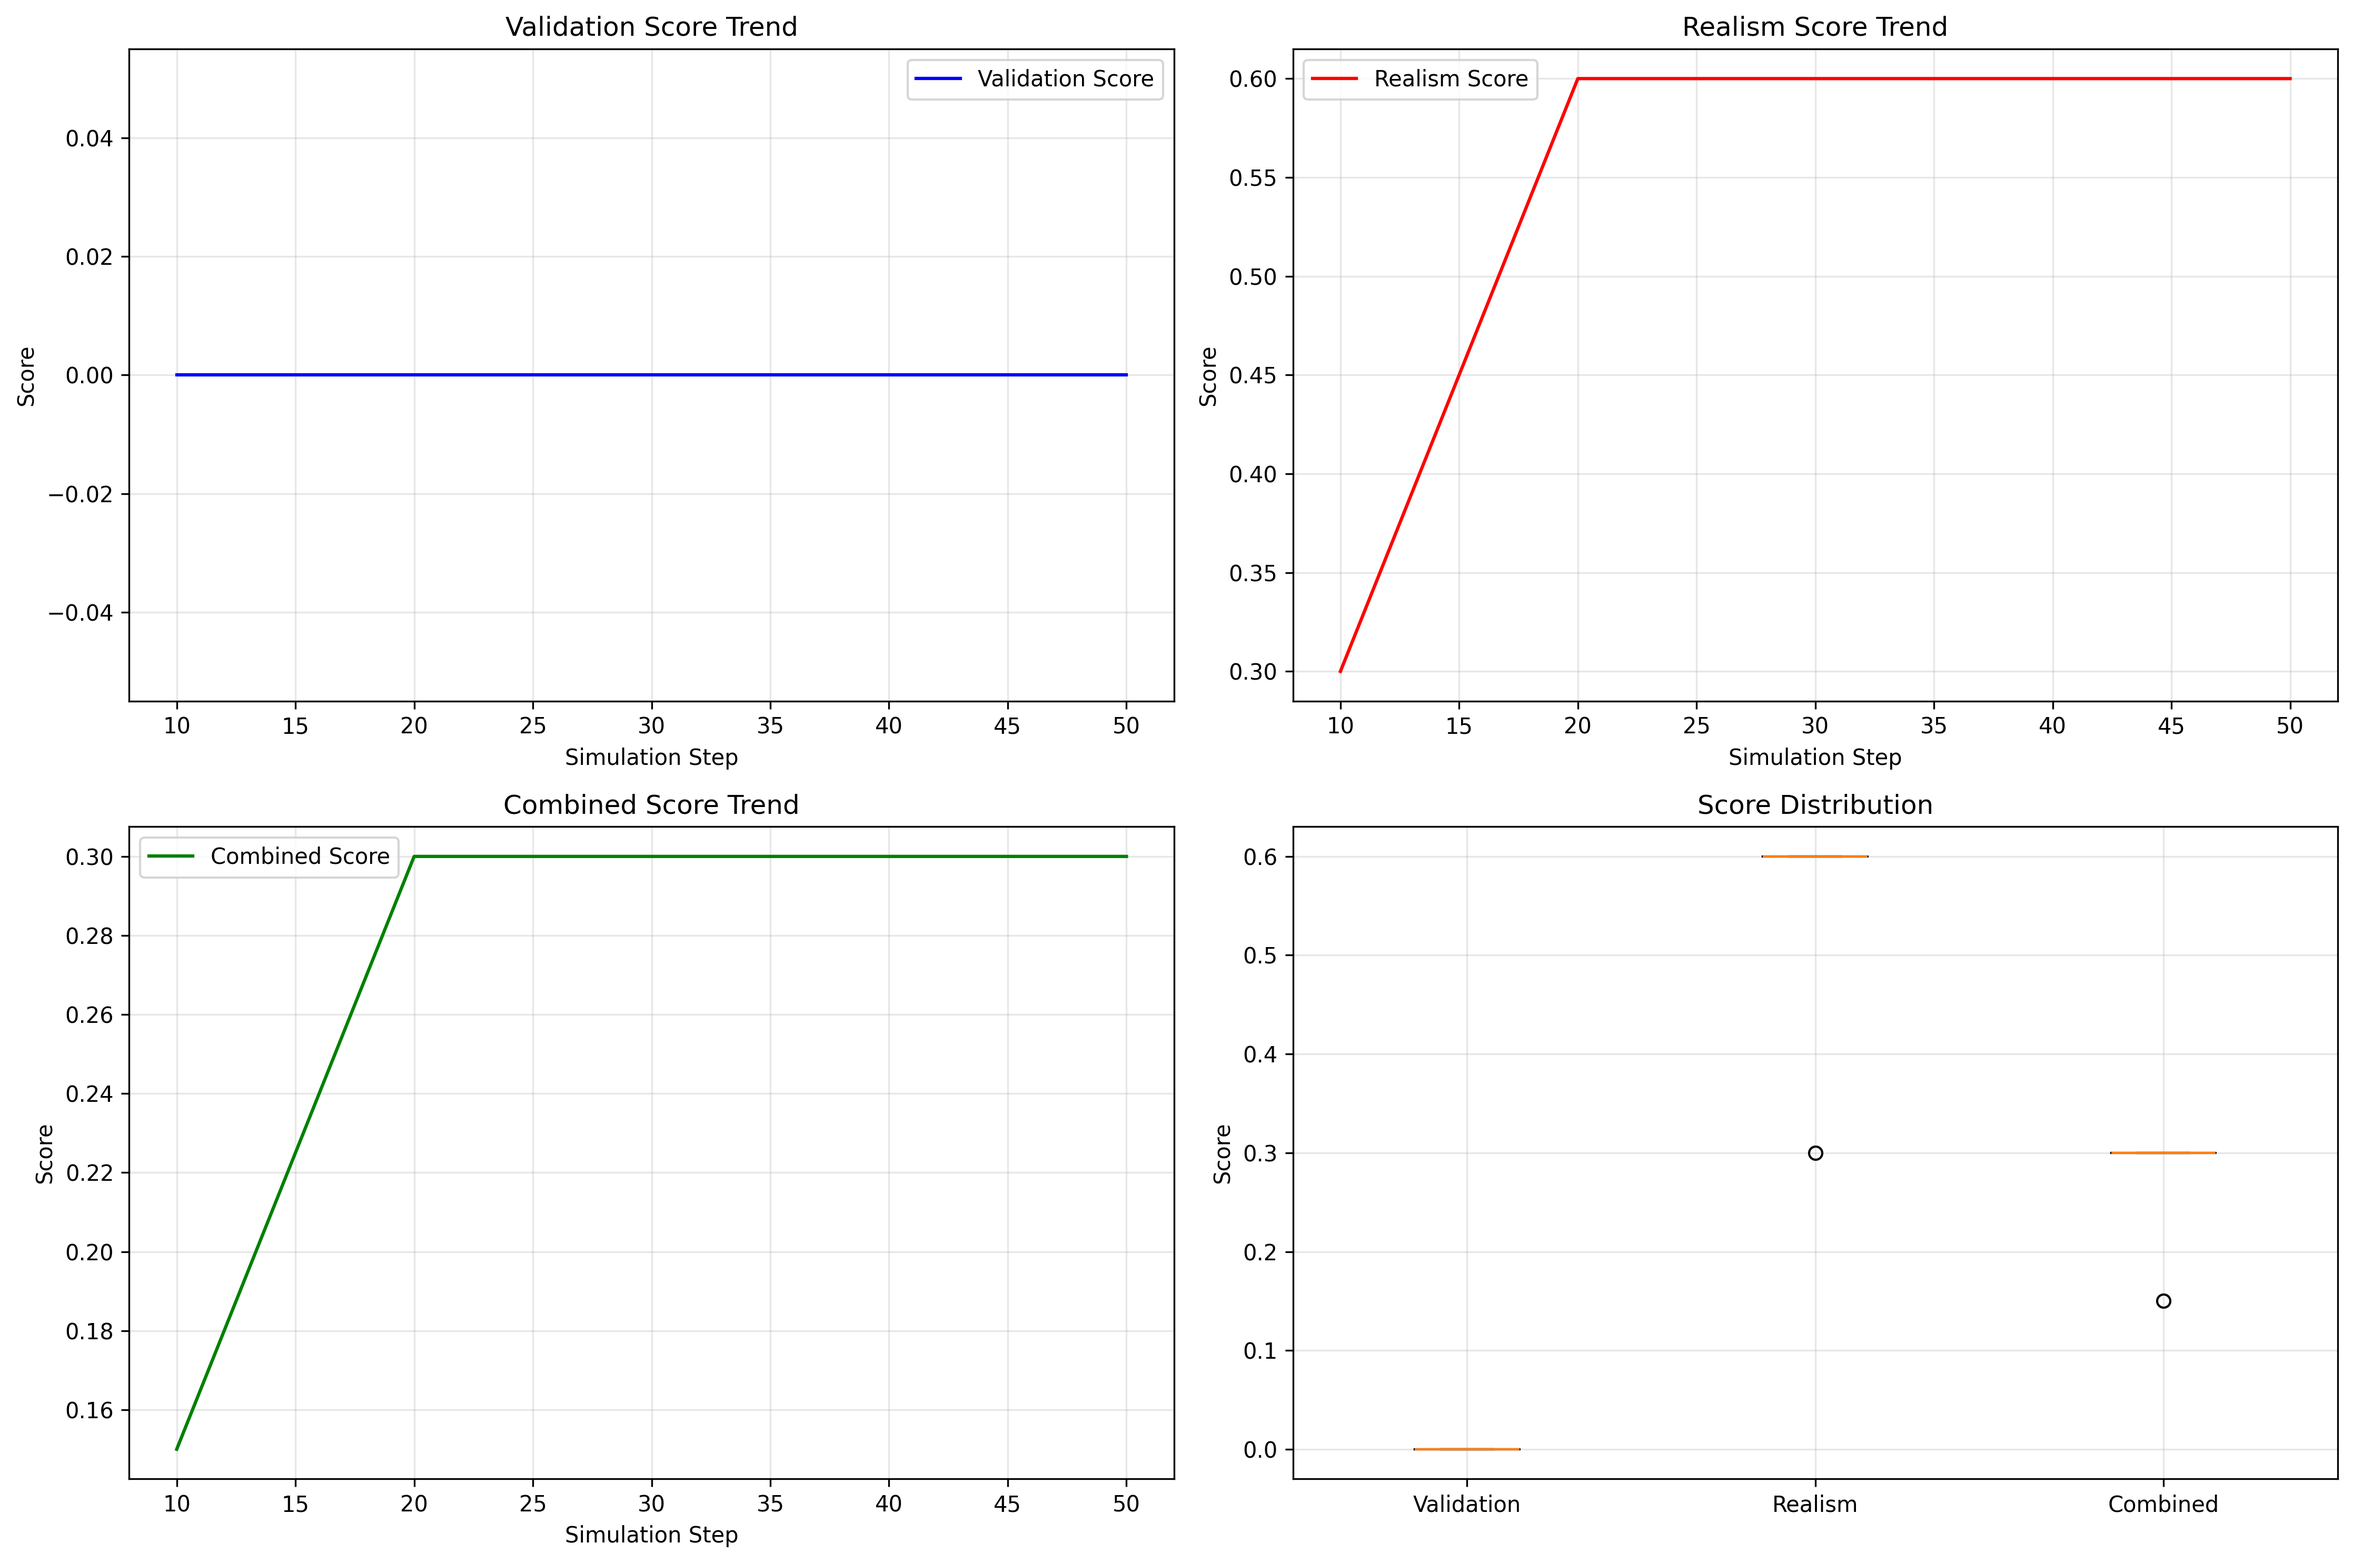
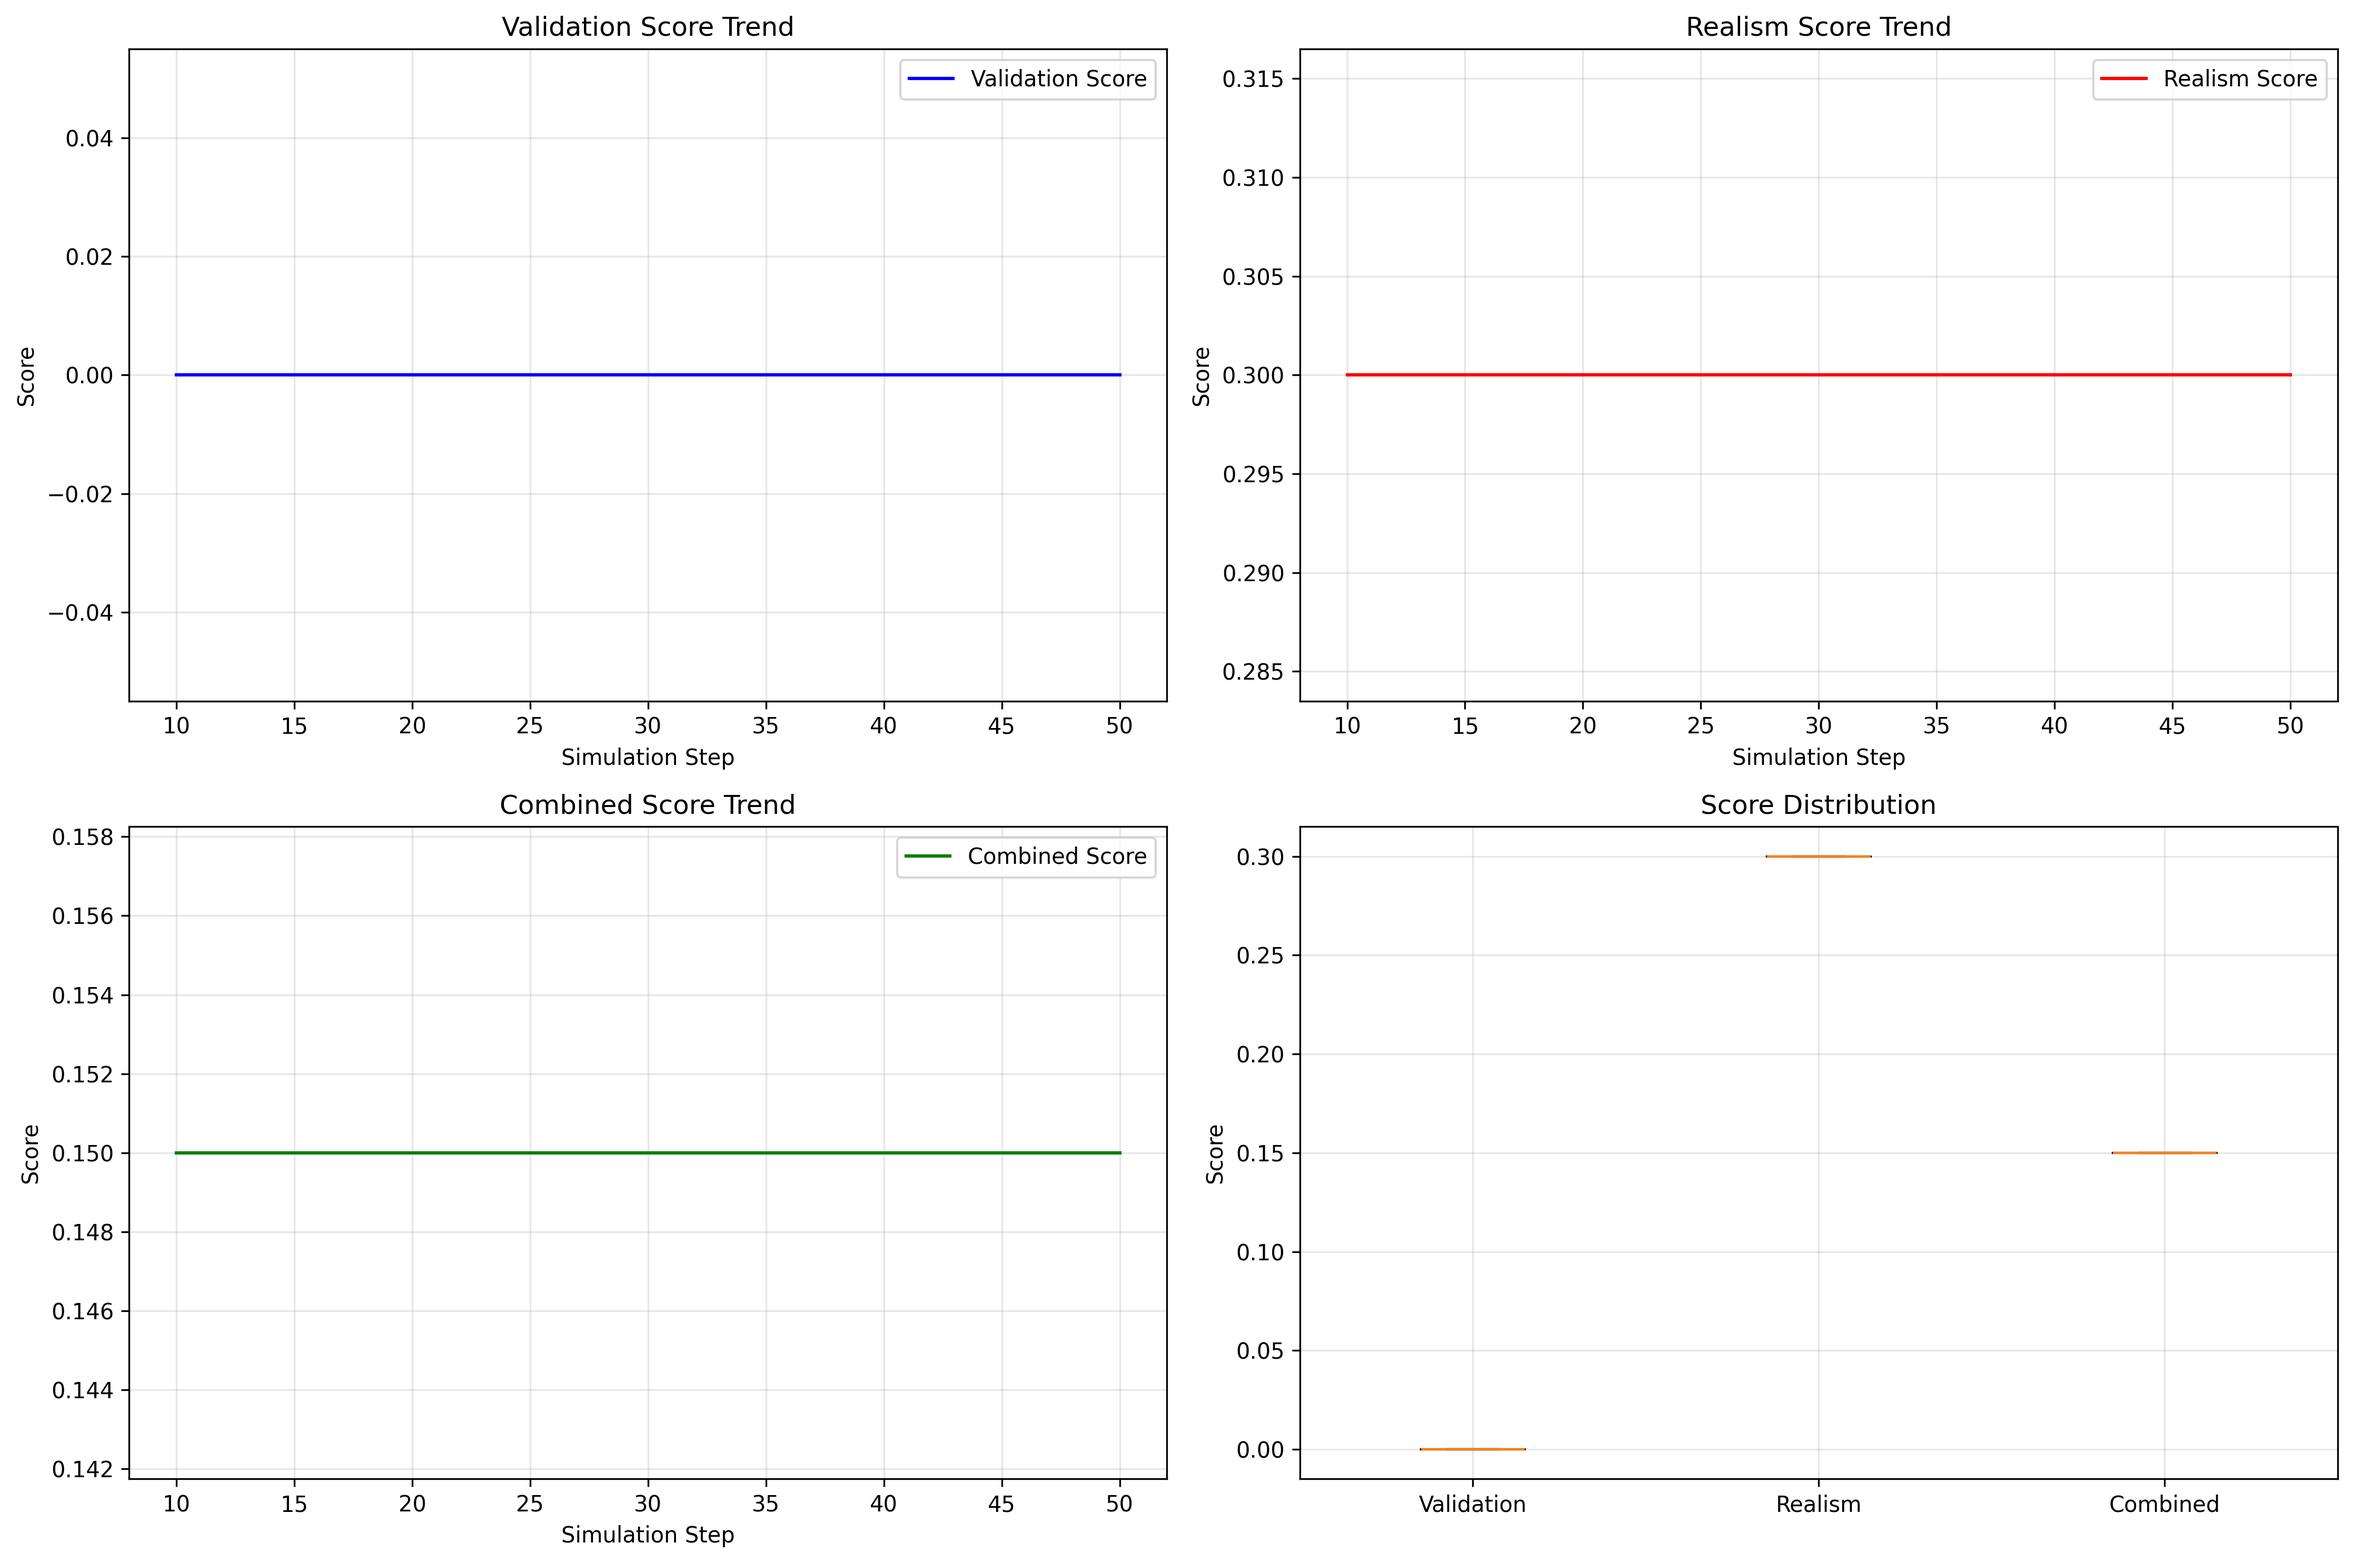
Update simulation and validation reports with new metrics and corrected values

diff --git a/Practice/model/demo_scenario_results/simulation_summary.md b/Practice/model/demo_scenario_results/simulation_summary.md
@@ -1,24 +1,24 @@
 # 통합 화재 시뮬레이션 보고서
 
 ## 시뮬레이션 개요
-- 생성 시간: 2025-05-27T23:37:19.192952
+- 생성 시간: 2025-05-27T23:40:44.627426
 - 총 단계 수: 50
 
 ## 시뮬레이션 결과
 - 총 연소 면적: 0 셀
 - 연소 비율: 0.00%
-- 최종 화재 크기: 4 셀
+- 최종 화재 크기: 5 셀
 
 ## 검증 결과
-- 정확도: 0.854
+- 정확도: 0.852
 - 정밀도: 0.000
 - 재현율: 0.000
 - F1 점수: 0.000
 
 ## 현실성 지표
-- 비화 이벤트: 1회
-- 최대 화재 강도: 262.8 kW/m
-- 평균 화염 길이: 0.7 m
+- 비화 이벤트: 0회
+- 최대 화재 강도: 224.2 kW/m
+- 평균 화염 길이: 0.8 m
 
 ## 개선 제안
 - **HIGH**: CA 규칙 파라미터 조정 필요

diff --git a/Practice/model/test_results/simulation_summary.md b/Practice/model/test_results/simulation_summary.md
@@ -1,7 +1,7 @@
 # 통합 화재 시뮬레이션 보고서
 
 ## 시뮬레이션 개요
-- 생성 시간: 2025-05-27T23:37:15.740928
+- 생성 시간: 2025-05-27T23:40:42.455714
 - 총 단계 수: 10
 
 ## 시뮬레이션 결과
@@ -10,15 +10,15 @@
 - 최종 화재 크기: 1 셀
 
 ## 검증 결과
-- 정확도: 0.842
+- 정확도: 0.848
 - 정밀도: 0.000
 - 재현율: 0.000
 - F1 점수: 0.000
 
 ## 현실성 지표
 - 비화 이벤트: 0회
-- 최대 화재 강도: 36.1 kW/m
-- 평균 화염 길이: 0.4 m
+- 최대 화재 강도: 103.5 kW/m
+- 평균 화염 길이: 0.7 m
 
 ## 개선 제안
 - **HIGH**: CA 규칙 파라미터 조정 필요
